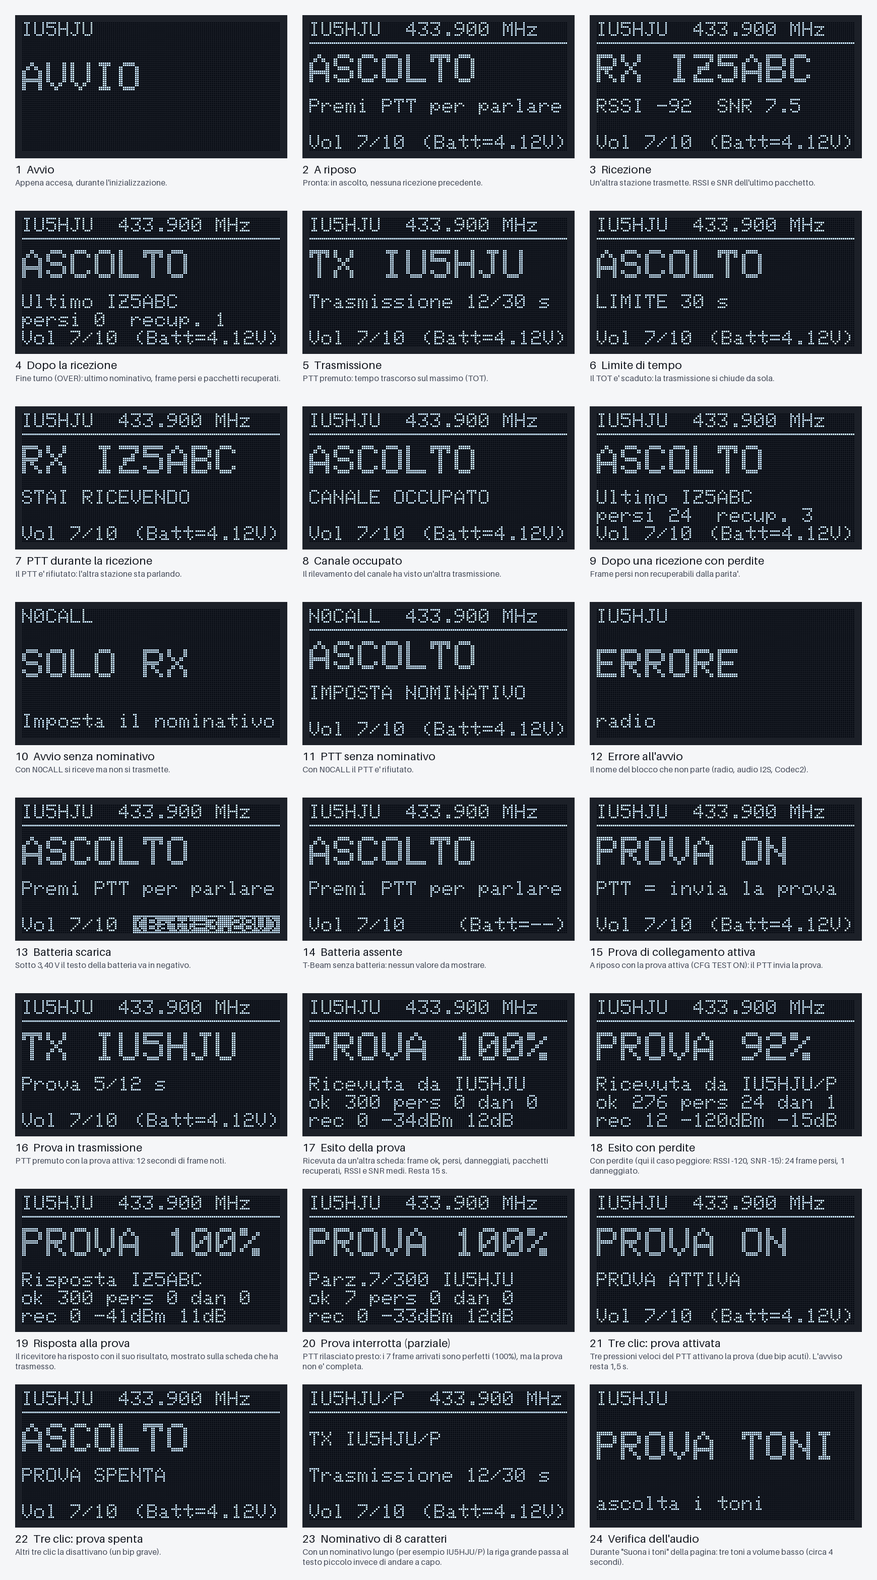
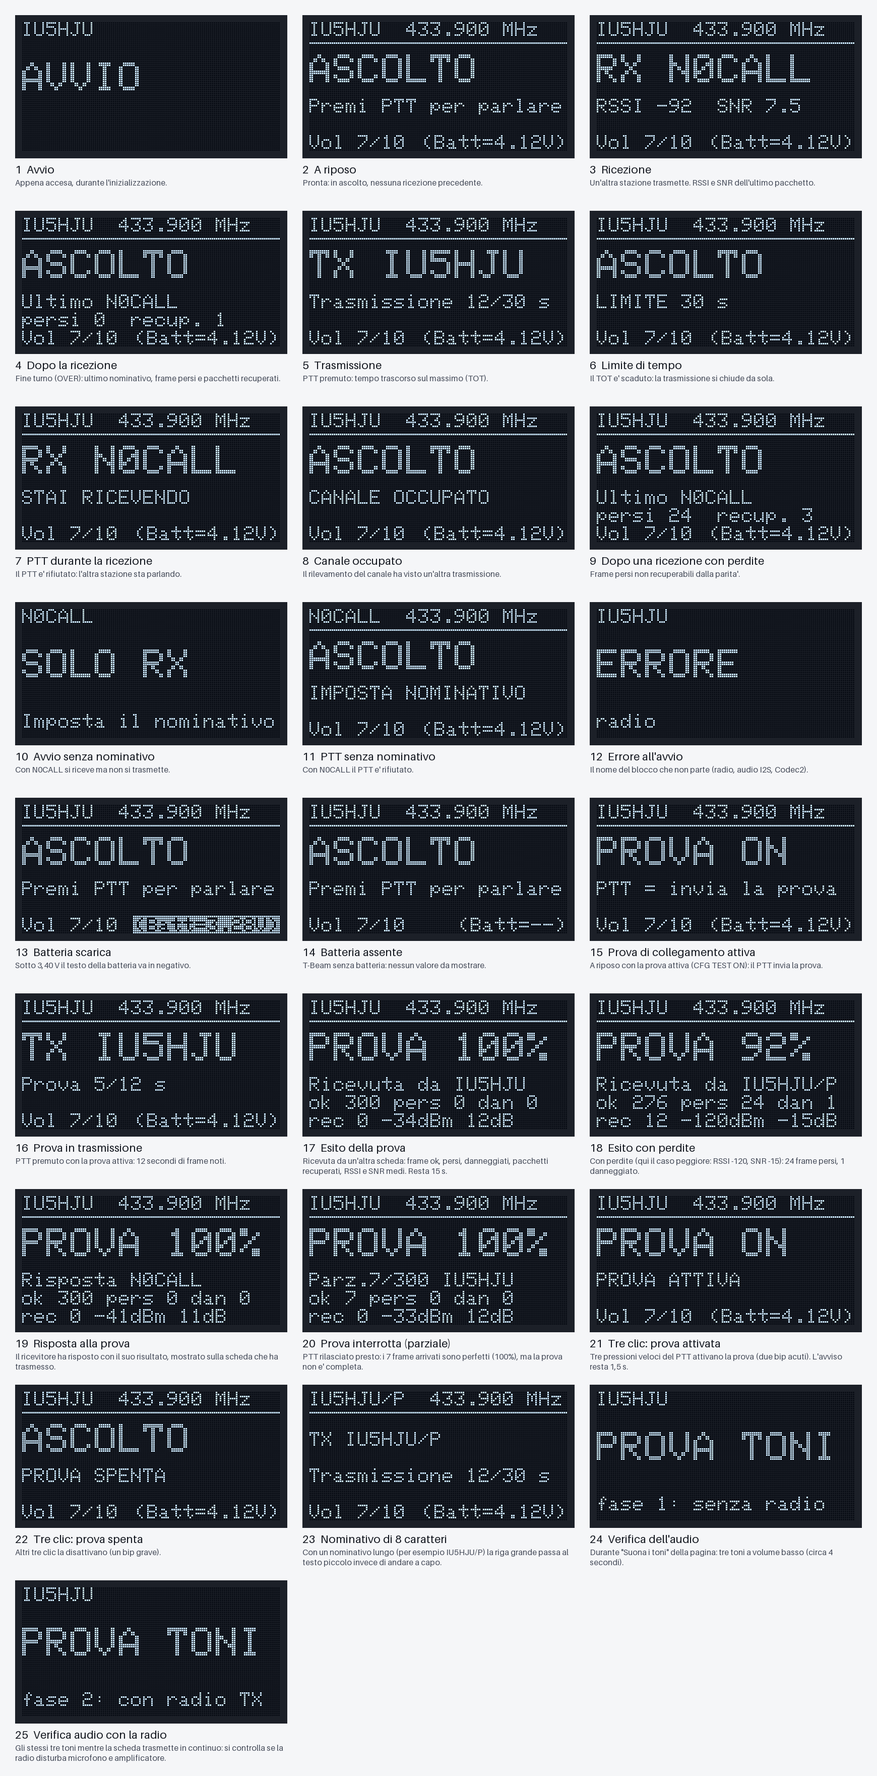
Nominativi di terzi sostituiti con N0CALL nei documenti, nel firmware e negli strumenti (restano solo i crediti nei link ai progetti citati e la libreria Codec2 di terzi); mockup del display rigenerato
Claude-Session: https://claude.ai/code/session_01XeozYwmYoAwuvXXpMrm81B

diff --git a/site/index.html b/site/index.html
@@ -268,7 +268,7 @@
       <p class="hint" id="gpshint">Il GPS assorbe decine di mA: accendilo solo se serve. Con un <strong>fix recente</strong> (cielo aperto; il primo può richiedere alcuni minuti) la posizione viene dal GPS, altrimenti dalla posizione fissa. Il display a riposo dice "GPS cerco satelliti" o "GPS fix, N satelliti".</p>
 
       <h3>MeshCom: avvisi e accordi sulle reti di testo</h3>
-      <p class="hint" id="mchint">Dal menu a bordo (volume lungo &rarr; <strong>MeshCom</strong>) la scheda passa per qualche minuto ai <strong>433,175 MHz</strong> delle reti radioamatoriali a pacchetto, invia uno dei testi qui sotto a un destinatario (un <strong>gruppo</strong> come 22251 o 222, un <strong>nominativo-SSID</strong> come IU5ABC-9, oppure <strong>*</strong> per tutti), ascolta le risposte dirette a te e poi <strong>torna da sola al profilo voce</strong>. È pensato per avvisare (&ldquo;IU5HJU QRV su VoLora modo Q&rdquo;) o fissare un QSO, non per sostituire un nodo MeshCom. Durante l'ascolto la scheda non sente la voce del progetto. I testi diretti al tuo <strong>nominativo-SSID</strong> (il tuo nominativo, &ldquo;-&rdquo; e l'SSID, per esempio IU5HJU-99) compaiono come un SMS e si leggono col PTT. Un messaggio a un gruppo o a * è ripetuto da molti nodi: usalo con parsimonia, e prima di trasmettere accordati con chi gestisce la rete della tua zona.</p>
+      <p class="hint" id="mchint">Dal menu a bordo (volume lungo &rarr; <strong>MeshCom</strong>) la scheda passa per qualche minuto ai <strong>433,175 MHz</strong> delle reti radioamatoriali a pacchetto, invia uno dei testi qui sotto a un destinatario (un <strong>gruppo</strong> come 22251 o 222, un <strong>nominativo-SSID</strong> come N0CALL-9, oppure <strong>*</strong> per tutti), ascolta le risposte dirette a te e poi <strong>torna da sola al profilo voce</strong>. È pensato per avvisare (&ldquo;IU5HJU QRV su VoLora modo Q&rdquo;) o fissare un QSO, non per sostituire un nodo MeshCom. Durante l'ascolto la scheda non sente la voce del progetto. I testi diretti al tuo <strong>nominativo-SSID</strong> (il tuo nominativo, &ldquo;-&rdquo; e l'SSID, per esempio IU5HJU-99) compaiono come un SMS e si leggono col PTT. Un messaggio a un gruppo o a * è ripetuto da molti nodi: usalo con parsimonia, e prima di trasmettere accordati con chi gestisce la rete della tua zona.</p>
       <label for="mcfreq">Frequenza della rete di testo (MHz)</label>
       <input id="mcfreq" inputmode="decimal" pattern="[0-9]{3}(\.[0-9]{1,3})?" placeholder="433.175" disabled>
       <label for="mcssid">SSID del tuo nominativo in rete (0-99, 0 = nessuno)</label>

diff --git a/tools/render_display.py b/tools/render_display.py
@@ -191,19 +191,19 @@ def screens(font):
         ("2  A riposo", "Pronta: in ascolto, nessuna ricezione precedente.",
          draw_screen(font)),
         ("3  Ricezione", "Un'altra stazione trasmette. RSSI e SNR dell'ultimo pacchetto.",
-         draw_screen(font, "rx", "IZ5ABC", -92, 7.5)),
+         draw_screen(font, "rx", "N0CALL", -92, 7.5)),
         ("4  Dopo la ricezione", "Fine turno (OVER): ultimo nominativo, frame persi e pacchetti recuperati.",
-         draw_screen(font, last=("IZ5ABC", 0, 1))),
+         draw_screen(font, last=("N0CALL", 0, 1))),
         ("5  Trasmissione", "PTT premuto: tempo trascorso sul massimo (TOT).",
          draw_screen(font, "tx", tx_seconds=12)),
         ("6  Limite di tempo", "Il TOT e' scaduto: la trasmissione si chiude da sola.",
          draw_screen(font, notice="LIMITE 30 s")),
         ("7  PTT durante la ricezione", "Il PTT e' rifiutato: l'altra stazione sta parlando.",
-         draw_screen(font, "rx", "IZ5ABC", -92, 7.5, notice="STAI RICEVENDO")),
+         draw_screen(font, "rx", "N0CALL", -92, 7.5, notice="STAI RICEVENDO")),
         ("8  Canale occupato", "Il rilevamento del canale ha visto un'altra trasmissione.",
          draw_screen(font, notice="CANALE OCCUPATO")),
         ("9  Dopo una ricezione con perdite", "Frame persi non recuperabili dalla parita'.",
-         draw_screen(font, last=("IZ5ABC", 24, 3))),
+         draw_screen(font, last=("N0CALL", 24, 3))),
         ("10  Avvio senza nominativo", "Con N0CALL si riceve ma non si trasmette.",
          show_message(font, "SOLO RX", "Imposta il nominativo", callsign="N0CALL")),
         ("11  PTT senza nominativo", "Con N0CALL il PTT e' rifiutato.",
@@ -223,7 +223,7 @@ def screens(font):
         ("18  Esito con perdite", "Con perdite (qui il caso peggiore: RSSI -120, SNR -15): 24 frame persi, 1 danneggiato.",
          draw_test_report(font, 276, 24, 1, 12, -120, -15, "IU5HJU/P")),
         ("19  Risposta alla prova", "Il ricevitore ha risposto con il suo risultato, mostrato sulla scheda che ha trasmesso.",
-         draw_test_report(font, 300, 0, 0, 0, -41, 11, "IZ5ABC", remote=True)),
+         draw_test_report(font, 300, 0, 0, 0, -41, 11, "N0CALL", remote=True)),
         ("20  Prova interrotta (parziale)", "PTT rilasciato presto: i 7 frame arrivati sono perfetti (100%), ma la prova non e' completa.",
          draw_test_report(font, 7, 0, 0, 0, -33, 12, "IU5HJU")),
         ("21  Tre clic: prova attivata", "Tre pressioni veloci del PTT attivano la prova (due bip acuti). L'avviso resta 1,5 s.",

diff --git a/lib/voicecore/settings.h b/lib/voicecore/settings.h
@@ -29,7 +29,7 @@
 //   CFG GET MONITOR              -> CFG MONITOR=on
 //   CFG SET FREQMC 433.175       -> CFG OK freqmc=433.175      (frequenza delle reti di testo, solo per l'escursione; come FREQ)
 //   CFG SET MCDEST1 22251        -> CFG OK mcdest1=22251       (MCDEST1..MCDEST5: destinatari tra cui scegliere nell'escursione MeshCom: un gruppo
-//                                   numerico (22251, 222...), un nominativo-SSID (IU5ABC-9) o * per tutti; NONE svuota il posto; valgono subito)
+//                                   numerico (22251, 222...), un nominativo-SSID (N0CALL-9) o * per tutti; NONE svuota il posto; valgono subito)
 //   CFG SET SYSOP IU5HJU         -> CFG OK sysop=IU5HJU        (nominativo del sysop: il solo che puo' comandare il ripetitore; NONE lo toglie; vale dal riavvio)
 //   CFG SET SYSOPKEY <32 cifre esadecimali> -> CFG OK sysopkey=set  (chiave condivisa di 16 byte per firmare i comandi; NONE la toglie; mai mostrata)
 //   CFG SET SYSOPMODE ON         -> CFG OK sysopmode=on        (modo Sysop: nel menu "Comandi Sysop" al posto di "Invia testo"; OFF lo spegne; vale dal riavvio)
@@ -39,7 +39,7 @@
 //   CFG SET IDMORSE ON           -> CFG OK idmorse=on          (ripetitore e nodo: dopo l'identificativo in testo anche il Morse in FM, per chi non ha le schede LoRa; di base ON; vale dal riavvio)
 //   CFG GET IDMORSE              -> CFG IDMORSE=on
 //   CFG GET IDINT                -> CFG IDINT=10
-//   CFG RADIOTEST MORSE FM IR5XXX -> prova radio del Morse (solo prove: MORSE, BEACON, CARRIER, TONE; vedi radio_test.h e docs/studio-identificativo-fm.md)
+//   CFG RADIOTEST MORSE FM N0CALL -> prova radio del Morse (solo prove: MORSE, BEACON, CARRIER, TONE; vedi radio_test.h e docs/studio-identificativo-fm.md)
 //   CFG SET ROLE NODE            -> CFG OK role=node           (nodo su Wi-Fi: T3 o T-Beam; i parametri sotto; vale dal riavvio)
 //   CFG SET WIFISSID <nome della rete> / CFG SET WIFIPASS <password>   (il resto della riga: possono avere spazi; NONE toglie la password)
 //   CFG SET PEER 192.168.1.51:5400  -> CFG OK peer=192.168.1.51:5400  (indirizzo e porta dell'altro nodo; NONE lo toglie)

diff --git a/src/wifi_page.h b/src/wifi_page.h
@@ -37,7 +37,7 @@ button.sec{background:#e5e7eb;color:#14181f}
 <label for="qth">Posizione fissa (latitudine,longitudine, oppure none)</label><input id="qth" placeholder="43.7696,11.2558">
 <div id="gpsbox" hidden><label for="gps">GPS (solo T-Beam)</label><select id="gps"><option value="off">Spento</option><option value="on">Acceso</option></select></div>
 <h2>MeshCom: avvisi e accordi</h2>
-<p class="hint">Dal menu della scheda (volume lungo, voce MeshCom) la scheda passa per qualche minuto ai 433,175 MHz delle reti di testo, invia un testo a un destinatario (gruppo come 22251 o 222, nominativo-SSID come IU5ABC-9, * per tutti), ascolta le risposte e torna da sola al profilo voce. Un posto vuoto non si usa.</p>
+<p class="hint">Dal menu della scheda (volume lungo, voce MeshCom) la scheda passa per qualche minuto ai 433,175 MHz delle reti di testo, invia un testo a un destinatario (gruppo come 22251 o 222, nominativo-SSID come N0CALL-9, * per tutti), ascolta le risposte e torna da sola al profilo voce. Un posto vuoto non si usa.</p>
 <label for="mcfreq">Frequenza della rete (MHz)</label><input id="mcfreq" inputmode="decimal">
 <label for="mcssid">SSID del tuo nominativo (0-99)</label><input id="mcssid" type="number" min="0" max="99">
 <label for="mcwindow">Secondi di ascolto dopo l'invio (30-1800)</label><input id="mcwindow" type="number" min="30" max="1800">

diff --git a/tools/vlreflector_page.h b/tools/vlreflector_page.h
@@ -88,7 +88,7 @@ static const char kAdminPage[] = R"HTML(<!doctype html>
       <h2>Registra un nodo</h2>
       <p class="muted">Il collega genera la chiave dalla pagina di configurazione della sua scheda e te la manda (su un canale privato) con il suo nominativo e, se ne ha più d'uno, il nome del nodo. Scrivili qui: l'id lo assegna il reflector. Un nominativo può avere <strong>più nodi</strong> (casa, mare, hotspot): ognuno ha il suo id e la sua chiave, e una chiave non si può usare due volte.</p>
       <label for="call">Nominativo</label>
-      <input id="call" maxlength="8" autocomplete="off" placeholder="IZ5ABC">
+      <input id="call" maxlength="8" autocomplete="off" placeholder="N0CALL">
       <label for="label">Nome del nodo (facoltativo: casa, mare, hotspot…)</label>
       <input id="label" maxlength="16" autocomplete="off" placeholder="casa">
       <label for="target">Cosa fare</label>

diff --git a/src/ui.cpp b/src/ui.cpp
@@ -741,7 +741,7 @@ void UiNotifier::draw(uint32_t nowMs) {
   } else if (haveLast_) {
     {  // "Ultimo IU5HJU 12.3km": la distanza si aggiunge solo se la riga resta entro i 21 caratteri
       char line[32];
-      // "Ultimo IZ5ABC via RPT" (arrivata da un ripetitore) o "Ultimo IR5XXX ID" (identificativo del ripetitore)
+      // "Ultimo N0CALL via RPT" (arrivata da un ripetitore) o "Ultimo N0CALL ID" (identificativo del ripetitore)
       int n = snprintf(line, sizeof(line), "Ultimo %s%s", rxCall_[0] ? rxCall_ : "-", lastBeacon_ ? " ID" : (lastVia_ ? " via RPT" : ""));
       if (distText_[0] && n > 0 && n + 1 + static_cast<int>(strlen(distText_)) <= 21) snprintf(line + n, sizeof(line) - n, " %s", distText_);
       display_.print(line);

diff --git a/lib/voicecore/settings.cpp b/lib/voicecore/settings.cpp
@@ -506,7 +506,7 @@ ConsoleResult SettingsConsole::set(const char* key, const char* value, char* rep
       for (; value[i] && i < sizeof(up) - 1; i++) up[i] = static_cast<char>(toupper(static_cast<unsigned char>(value[i])));
       up[i] = 0;
       if (!isValidMcDest(up)) {
-        say(reply, cap, "CFG ERR mcdest %s", "gruppo (22251), nominativo-SSID (IU5ABC-9, A-Z 0-9 / -, massimo 15), * per tutti, NONE per svuotare");
+        say(reply, cap, "CFG ERR mcdest %s", "gruppo (22251), nominativo-SSID (N0CALL-9, A-Z 0-9 / -, massimo 15), * per tutti, NONE per svuotare");
         return ConsoleResult::Error;
       }
       memset(next.mcDests[slot], 0, sizeof(next.mcDests[slot]));

diff --git a/lib/voicecore/reflector_config.h b/lib/voicecore/reflector_config.h
@@ -17,7 +17,7 @@ struct ReflectorEntry {
   uint8_t key[kNodeKeyBytes] = {0};
   std::string name;   // di solito il nominativo del radioamatore (puo' ripetersi su piu' nodi)
   std::string label;  // facoltativa: distingue i nodi dello stesso nominativo ("casa", "mare", "hotspot")
-  // Come si mostra nei registri: "IZ5IOF" oppure "IZ5IOF casa".
+  // Come si mostra nei registri: "N0CALL" oppure "N0CALL casa".
   std::string display() const { return label.empty() ? name : name + " " + label; }
 };
 

diff --git a/lib/voicecore/inbox.h b/lib/voicecore/inbox.h
@@ -14,7 +14,7 @@ namespace lcr {
 class Inbox {
  public:
   enum class Kind : uint8_t { None, Voice, Text };
-  static constexpr size_t kMaxFrom = 15;  // nominativo-SSID del mittente di un testo di altre reti (IU5ABC-12)
+  static constexpr size_t kMaxFrom = 15;  // nominativo-SSID del mittente di un testo di altre reti (N0CALL-12)
 
   void clear();
   Kind kind() const { return kind_; }

diff --git a/docs/firmware.md b/docs/firmware.md
@@ -155,7 +155,7 @@ Su `pio device monitor` (115200 baud) si scrivono righe che iniziano con `CFG`; 
 | `CFG SET TEXT1 Arrivo tra 10 minuti` | `CFG OK text1=Arrivo tra 10 minuti` | **testi predefiniti da inviare** (`TEXT1`...`TEXT5`): messaggi di testo stile SMS, 1-150 caratteri ASCII, senza `{` e `}`, **il testo è il resto della riga** (può avere spazi). `NONE` svuota il posto. Valgono **subito**, senza riavvio (non cambiano `reboot=`). All'inizio ci sono cinque testi di esempio; il primo è `%C QRV su VoLoRa modo %M %F`. Nel testo valgono i **segnaposti** `%C` (il tuo nominativo), `%M` (la lettera del modo in uso: S, M, Q) e `%F` (la frequenza del profilo in uso), sostituiti all'invio ([meshcom-testo.md](meshcom-testo.md)). Si inviano dal menu a bordo, voce "Invia testo" ([modo-messaggio.md](modo-messaggio.md)) |
 | `CFG GET TEXT1` | `CFG TEXT1=Arrivo tra 10 minuti` | legge il testo 1-5 (vuoto: `CFG TEXT1=`). Un comando per testo: `CFG GET` non li contiene |
 | `CFG SET MCDEST1 22251` | `CFG OK mcdest1=22251` | **escursione MeshCom** ([meshcom-testo.md](meshcom-testo.md)): `MCDEST1`…`MCDEST5` sono i destinatari tra cui scegliere (un gruppo, un nominativo-SSID o `*`; `NONE` svuota); `CFG SET MCSSID 99`, `CFG SET MCWINDOW 300` (secondi di ascolto, 30-1800), `CFG SET FREQMC 433.175`; `CFG GET MC` → `CFG MC freqmc=433.175 ssid=99 window=300`, `CFG GET MCDEST1`; valgono subito |
-| `CFG RADIOTEST MORSE FM IR5XXX` | `CFG OK radiotest in corso ...` | **prova radio del Morse** (solo prove, vedi [studio-identificativo-fm.md](studio-identificativo-fm.md)): `MORSE FM/CW`, `BEACON`, `CARRIER`, `TONE`; trasmette in FSK, rifiuta N0CALL |
+| `CFG RADIOTEST MORSE FM N0CALL` | `CFG OK radiotest in corso ...` | **prova radio del Morse** (solo prove, vedi [studio-identificativo-fm.md](studio-identificativo-fm.md)): `MORSE FM/CW`, `BEACON`, `CARRIER`, `TONE`; trasmette in FSK, rifiuta N0CALL |
 | `CFG SET GPS ON` | `CFG OK gps=on` | **accende il GPS della T-Beam** (alimentazione ALDO3 e lettura NMEA a 9600 baud su GPIO34). **Spento di default**: consuma decine di mA. Vale dal riavvio. Sulle altre schede risponde `CFG ERR gps questa scheda non ha il GPS`. Con un fix recente (meno di 15 s) la posizione trasmessa nel pacchetto START (`CFG SET POS ON`) e quella per la distanza sul display vengono dal GPS; senza fix si usa la posizione fissa (`CFG SET QTH`); senza nemmeno quella, nessuna posizione. In seriale: `[gps]` con fix, satelliti e frasi lette; sul display a riposo "GPS fix, N satelliti" oppure "GPS cerco satelliti" |
 | `CFG SET POS ON` | `CFG OK pos=on` | **trasmette la posizione** nel pacchetto `START` (protocollo 2, [protocollo.md](protocollo.md)). **Spenta di default**: la posizione è un dato personale e viaggia in chiaro. Se non c'è una posizione (QTH non impostato) non parte nulla. `OFF` la spegne |
 | `CFG SET QTH 43.7696,11.2558` | `CFG OK qth=43.76960,11.25580` | **posizione fissa** (latitudine,longitudine in gradi decimali, senza spazi). Serve anche a mostrare la **distanza in km** dalle stazioni che trasmettono la loro posizione, anche con `POS OFF`. `NONE` la cancella |
@@ -266,7 +266,7 @@ Prima della ritrasmissione la TX manda l'**annuncio di "occupato"** (modo 6); le
 
 **Comandi del sysop (12/11/2026):** il sysop può spegnere, riaccendere, riavviare, far identificare e cambiare la potenza del ripetitore con comandi firmati (modo 5); configurazione (`CFG SET SYSOP`, `CFG SET SYSOPKEY`, `CFG SET SYSOPMODE`, dalla pagina) e uso (menu **Comandi Sysop** a bordo, oppure `CFG SYSCMD ...` da seriale) in [studio-ripetitore.md](studio-ripetitore.md). Se una trasmissione continua supera 60 s di voce (180 s di messaggio) la TX si spegne da sola per 5 minuti. Logica provata sul PC, **non ancora sulle schede**.
 
-**Identificativo periodico (12/11/2026):** ogni 1-10 minuti (`CFG SET IDINT`, di base 10) la TX manda un testo con il nominativo del ripetitore; le stazioni lo mostrano come "Ultimo IR5XXX ID" senza bip. Dopo il testo, il **nominativo in Morse con tono in FM stretta** (15 wpm, 700 Hz, ±2,5 kHz; `CFG SET IDMORSE ON/OFF`, di base acceso) per chi non ha le schede LoRa: [studio-identificativo-fm.md](studio-identificativo-fm.md) (il CW puro resta solo nella prova `CFG RADIOTEST`).
+**Identificativo periodico (12/11/2026):** ogni 1-10 minuti (`CFG SET IDINT`, di base 10) la TX manda un testo con il nominativo del ripetitore; le stazioni lo mostrano come "Ultimo N0CALL ID" senza bip. Dopo il testo, il **nominativo in Morse con tono in FM stretta** (15 wpm, 700 Hz, ±2,5 kHz; `CFG SET IDMORSE ON/OFF`, di base acceso) per chi non ha le schede LoRa: [studio-identificativo-fm.md](studio-identificativo-fm.md) (il CW puro resta solo nella prova `CFG RADIOTEST`).
 
 **Nodo Internet (12/11/2026, provato su due schede, T-Beam e T3, in rete locale: collegamento, testo nei due sensi e voce (intelligibile, ritardo 1,4 s misurato a mano); [prove.md](prove.md)):** il ruolo `CFG SET ROLE NODE` fa della T3 (o della T-Beam) un nodo che porta i pacchetti LoRa (voce Standard e testo) a un altro nodo via Wi-Fi con UDP firmato (HMAC), per i collegamenti fra siti; identificativo periodico come il ripetitore (`IDINT`, `IDMORSE`: testo "Nodo VoLoRa" e Morse in FM, dal 13/11/2026, provato solo sul PC), impostazioni `CALLSIGN` (non `CALL`), `WIFISSID`, `WIFIPASS`, `PEER`, `NODEPORT`, `NODEID`, `PEERID`, `NODEKEY` e `CFG GET NODE`. Procedura in [banco-nodo.md](banco-nodo.md), studio in [studio-nodo-internet.md](studio-nodo-internet.md).
 

diff --git a/docs/studio-reflector.md b/docs/studio-reflector.md
@@ -1,17 +1,17 @@
 # Studio: il reflector VoLoRa (preso da quello YSF)
 
-13/11/2026. Scopo: un **reflector** a cui si collegano **nodi e ripetitori** VoLoRa e che porta i pacchetti radio da uno a tutti gli altri, **senza aprire porte sul router** di chi si collega. Parte dall'esame del reflector YSF (System Fusion) di G4KLX. Stato: **fatto sul PC** (passi 1-4 sotto); come si usa è in [reflector.md](reflector.md).
+13/11/2026. Scopo: un **reflector** a cui si collegano **nodi e ripetitori** VoLoRa e che porta i pacchetti radio da uno a tutti gli altri, **senza aprire porte sul router** di chi si collega. Parte dall'esame del reflector YSF (System Fusion) del progetto YSFClients. Stato: **fatto sul PC** (passi 1-4 sotto); come si usa è in [reflector.md](reflector.md).
 
 ## Come funziona il reflector YSF (letto dal sorgente)
 
-Fonte: `YSFReflector.cpp` e `Network.cpp` di G4KLX, nella copia [wdatkinson/YSFClients](https://github.com/wdatkinson/YSFClients/tree/master/YSFReflector) (il repository originale è [g4klx/YSFClients](https://github.com/g4klx/YSFClients)). I numeri sotto sono quelli del codice, non una mia stima.
+Fonte: `YSFReflector.cpp` e `Network.cpp` del progetto YSFClients, nella copia [wdatkinson/YSFClients](https://github.com/wdatkinson/YSFClients/tree/master/YSFReflector) (il repository originale è [g4klx/YSFClients](https://github.com/g4klx/YSFClients)). I numeri sotto sono quelli del codice, non una mia stima.
 
 - **UDP, un solo socket sul server.** I ripetitori e i gateway (i *client*) **iniziano sempre loro**: mandano un datagramma al server e il server risponde all'**indirizzo e porta da cui è arrivato**. Per questo i client **non aprono nessuna porta** sul router: il NAT crea da solo la corrispondenza quando il client scrive per primo.
 - **Registrazione = il poll.** Un datagramma `YSFP` + nominativo (10 caratteri): se il server non conosce quella coppia (indirizzo, porta) la aggiunge all'elenco, avvia un timer da **60 s** e risponde con `YSFPREFLECTOR ` (14 byte). Il client si identifica quindi **solo con l'indirizzo e la porta di origine**: se il NAT cambia la porta, per il server è un altro client.
 - **Poll in due sensi ogni 5 s.** Il server manda `YSFPREFLECTOR ` a tutti i client ogni **5 s** (tiene aperto il NAT e dice che c'è); chi non si fa sentire per 60 s viene tolto. Il client risponde con i suoi poll.
 - **Dati.** `YSFD` è un datagramma da **155 byte** (all'inizio 4 byte di tipo, poi 10 caratteri del ripetitore che ha trasmesso, 10 del mittente, 10 del destinatario; il bit 0 del byte 34 segna **fine trasmissione**). Il server lo **inoltra identico a tutti i client tranne quello da cui arriva**.
 - **Scollegamento.** `YSFU`: il server toglie subito il client. **Stato.** `YSFS`: risposta di 42 byte con un numero, nome, descrizione e conteggio dei client collegati.
-- **Chi parla.** Il reflector G4KLX tiene un solo "watchdog di rete" da **1,5 s** che serve per i messaggi di log: **inoltra comunque tutto**. Chi parla per primo è deciso da implementazioni successive (per esempio [pYSFReflector](https://github.com/dg9vh/pYSFReflector): "first-come-first-served", la seconda trasmissione contemporanea è silenziata; elenchi di nominativi e gateway bloccati).
+- **Chi parla.** Il reflector YSFClients tiene un solo "watchdog di rete" da **1,5 s** che serve per i messaggi di log: **inoltra comunque tutto**. Chi parla per primo è deciso da implementazioni successive (per esempio [pYSFReflector](https://github.com/dg9vh/pYSFReflector): "first-come-first-served", la seconda trasmissione contemporanea è silenziata; elenchi di nominativi e gateway bloccati).
 - **Nessuna autenticazione.** Chiunque conosca l'indirizzo manda un poll e entra; un datagramma da un indirizzo qualsiasi è accettato.
 
 ## Cosa prendiamo, cosa cambiamo

diff --git a/docs/display.md b/docs/display.md
@@ -13,11 +13,11 @@ automatico del codice in `src/ui.cpp`. Sul display reale i colori dipendono dal 
 - **MeshCom (11/11/2026):** durante l'escursione sulle reti di testo la lettera in alto a destra è **T**, compare la frequenza della rete e lo schermo a riposo dice "MESHCOM" con il conto alla rovescia dell'ascolto; il menu ha sei voci (scorre: se ne vedono cinque, la scelta resta visibile) e la voce MeshCom apre due scelte (testo, poi destinatario). [meshcom-testo.md](meshcom-testo.md).
 - **Menu a bordo:** quattro voci (Standard, Range, Messaggio, Wi-Fi; dall'11/11 cinque, con "Invia testo"), una per riga; la scelta in negativo e il profilo in uso con `*`.
 - **Schermata Wi-Fi** (voce "Wi-Fi" del menu): in alto il nome della rete `VoLoRa-XXXX`, poi `Password:` e la **password in carattere doppio e in grassetto** (8 cifre), in basso `http://192.168.4.1` e `VOL lungo = esci`. Con questa schermata la scheda non trasmette e non riceve.
-- **Ultimo ricevuto (12/11/2026):** una voce passata da un ripetitore dice "Ultimo IZ5ABC via RPT"; l'identificativo periodico del ripetitore "Ultimo IR5XXX ID" con RSSI e SNR e **senza bip** (non è un messaggio e non va in casella).
+- **Ultimo ricevuto (12/11/2026):** una voce passata da un ripetitore dice "Ultimo N0CALL via RPT"; l'identificativo periodico del ripetitore "Ultimo N0CALL ID" con RSSI e SNR e **senza bip** (non è un messaggio e non va in casella).
 - **Modo Sysop (12/11/2026):** con `CFG SET SYSOPMODE ON` la voce "Invia testo" diventa "Comandi Sysop" e apre l'elenco dei comandi al ripetitore ("COMANDI SYSOP 3/10", PTT = altro, volume breve = invia). Durante l'invio la schermata dice "COMANDO" / "Trasmetto il comando"; la risposta del ripetitore compare per 4 s come avviso ("RIP: SPENTO", "RIP: ATTIVO 10dBm", "RIP: OK", "RIPETI IL COMANDO"). Vedi [studio-ripetitore.md](studio-ripetitore.md).
 - **Messaggi (11/11/2026):** a ricezione conclusa compare una **grande icona** (altoparlante = voce, busta = testo), "MESSAGGIO RICEVUTO" e "Premi PTT: ascolta" (o "leggi"); il PTT breve apre il messaggio. Il testo si legge a pagine di 6 righe (volume breve = pagina successiva). Il menu ha ora **cinque voci** (Standard, Range, Messaggio, **Invia testo**, Wi-Fi), senza titolo; "Invia testo" apre la scelta dei testi ("INVIA TESTO 2/5", "PTT=altro VOL=invia"). Dettagli in [modo-messaggio.md](modo-messaggio.md).
 - **Messaggio:** durante l'invio e la ricezione compare la percentuale (1-100%) con una barra di avanzamento.
-- Le immagini in `images/display.png` sono i mockup della prima versione e **non** mostrano ancora queste novità.
+- L'immagine `images/display.png` è rigenerata dallo script (14/11/2026, 25 schermate, con `N0CALL` al posto dei nominativi di esempio) ma **non** mostra ancora le novità successive: le schermate della **prova di potenza** (in corso con la potenza, esito `MIN … dBm`, `NON PULITA`, `NESSUNA`) e i passi della prova sono descritti nel testo qui sopra.
 
 ## Struttura di una schermata
 
